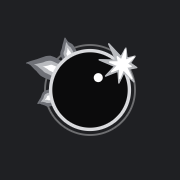
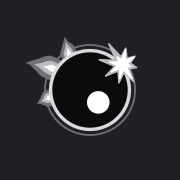
AI 탭 65차: 로고 흰 점 오른쪽 아래로, 2.5배 크게

Changed region(s): [[0.4722, 0.5, 0.6111, 0.6389], [0.5, 0.3889, 0.5833, 0.4722]]

diff --git a/ai/index.html b/ai/index.html
@@ -7,8 +7,8 @@
 <link rel="canonical" href="https://querybot.kr/ai/">
 <meta name="description" content="QueryBot AI — 직접 학습시킨 작은 한국어 AI와 대화하기">
 <title>QueryBot AI</title>
-<link rel="icon" href="/ai/favicon.svg?v=64" type="image/svg+xml">
-<link rel="apple-touch-icon" href="/ai/apple-touch-icon.png?v=64">
+<link rel="icon" href="/ai/favicon.svg?v=65" type="image/svg+xml">
+<link rel="apple-touch-icon" href="/ai/apple-touch-icon.png?v=65">
 <link rel="stylesheet" href="/assets/style.css">
 <link rel="stylesheet" href="https://cdn.jsdelivr.net/gh/orioncactus/pretendard@v1.3.9/dist/web/variable/pretendardvariable-dynamic-subset.min.css">
 <link rel="stylesheet" href="https://cdn.jsdelivr.net/npm/@fontsource-variable/noto-serif-kr@5.3.1/index.css">
@@ -1013,7 +1013,7 @@
 <script>try{var qbT=localStorage.getItem("qbAi.theme");if(qbT==="dark"||(qbT==="system"&&window.matchMedia&&matchMedia("(prefers-color-scheme: dark)").matches))document.documentElement.dataset.theme="dark";}catch(e){}</script>
 </head>
 <body class="qa-page">
-<header class="nav"><div class="wrap navin"><a class="brand qb-brand" id="brandHome" href="/ai/"><span class="qb-logo" aria-hidden="true"><svg class="qbm" viewBox="0 0 96 96" width="100%" height="100%" aria-hidden="true" focusable="false"><defs><mask id="qbgap" maskUnits="userSpaceOnUse" x="-30" y="-30" width="156" height="156"><rect x="-30" y="-30" width="156" height="156" fill="#fff"/><circle cx="48" cy="48" r="21.6" fill="#000"/></mask></defs><g transform="translate(48 48) scale(1.44) translate(-40.9 -44.5)"><g mask="url(#qbgap)"><g class="qfl qfl0"><path class="lg1" d="M34.5 44.1 C32.0 44.7 25.9 42.3 23.0 41.1 C20.0 39.9 18.8 38.3 17.0 36.9 C15.2 35.6 13.4 33.8 12.1 32.9 C10.8 32.0 8.4 31.8 9.2 31.3 C10.1 30.8 14.3 30.1 17.3 29.8 C20.3 29.5 23.7 28.2 27.2 29.5 C30.7 30.9 37.1 35.5 38.3 37.9 C39.5 40.4 37.1 43.6 34.5 44.1Z"/><path class="lg2" d="M35.0 42.8 C33.0 42.9 27.8 40.4 25.4 39.4 C23.1 38.3 22.4 37.4 21.0 36.5 C19.7 35.6 18.3 34.6 17.3 34.0 C16.3 33.4 14.5 33.3 15.1 33.0 C15.7 32.8 18.6 32.6 20.7 32.5 C22.8 32.4 24.9 31.5 27.6 32.6 C30.4 33.7 36.1 37.2 37.3 38.9 C38.5 40.6 37.0 42.8 35.0 42.8Z"/><path class="lg3" d="M35.4 41.8 C34.0 41.6 29.7 39.3 28.0 38.4 C26.4 37.6 26.2 37.3 25.3 36.8 C24.5 36.3 23.6 35.7 23.0 35.4 C22.4 35.1 21.3 35.0 21.6 34.9 C21.9 34.8 23.7 34.9 24.9 34.9 C26.1 35.0 27.0 34.4 28.9 35.2 C30.9 36.0 35.6 38.7 36.6 39.8 C37.7 40.9 36.9 42.0 35.4 41.8Z"/></g><g class="qfl qfl1"><path class="lg1" d="M38.6 37.6 C36.9 36.8 33.9 32.3 32.9 30.2 C31.8 28.1 32.6 26.6 32.6 25.0 C32.6 23.3 32.9 21.5 33.0 20.3 C33.2 19.1 33.1 17.6 33.6 17.8 C34.1 17.9 34.9 19.9 35.9 21.1 C36.9 22.4 38.3 22.7 39.6 25.0 C40.8 27.3 43.4 32.7 43.2 34.8 C43.1 36.9 40.4 38.4 38.6 37.6Z"/><path class="lg2" d="M39.4 36.9 C38.2 36.1 35.6 31.9 34.7 30.2 C33.9 28.4 34.5 27.6 34.5 26.4 C34.5 25.3 34.5 24.0 34.6 23.2 C34.6 22.3 34.5 21.2 34.8 21.4 C35.1 21.5 35.7 23.0 36.3 24.0 C36.9 24.9 37.6 25.0 38.6 26.9 C39.6 28.8 42.1 33.6 42.3 35.2 C42.4 36.9 40.7 37.8 39.4 36.9Z"/><path class="lg3" d="M40.1 36.5 C39.2 35.6 37.0 31.9 36.4 30.6 C35.7 29.2 36.2 29.1 36.2 28.4 C36.1 27.7 36.1 27.0 36.1 26.5 C36.1 26.0 36.0 25.3 36.1 25.4 C36.3 25.5 36.6 26.5 36.9 27.0 C37.3 27.6 37.4 27.5 38.2 28.9 C39.0 30.3 41.2 34.3 41.5 35.6 C41.8 36.8 40.9 37.3 40.1 36.5Z"/></g><g class="qfl qfl2"><path class="lg1" d="M35.0 53.2 C33.9 54.7 29.1 56.0 27.2 56.5 C25.2 57.0 24.5 56.3 23.3 56.1 C22.1 56.0 20.9 55.7 20.0 55.6 C19.2 55.5 18.2 56.1 18.4 55.6 C18.5 55.1 20.0 53.6 21.0 52.4 C22.0 51.2 22.4 49.2 24.6 48.4 C26.8 47.6 32.3 46.7 34.0 47.5 C35.7 48.3 36.2 51.7 35.0 53.2Z"/><path class="lg2" d="M34.6 52.2 C33.5 53.2 29.1 54.2 27.5 54.6 C25.8 55.0 25.6 54.5 24.7 54.5 C23.9 54.5 23.0 54.4 22.4 54.4 C21.8 54.4 21.1 54.9 21.2 54.6 C21.3 54.2 22.4 53.2 23.2 52.4 C24.0 51.6 24.0 50.5 25.8 49.8 C27.6 49.2 32.5 48.2 34.0 48.6 C35.5 49.0 35.7 51.2 34.6 52.2Z"/><path class="lg3" d="M34.4 51.3 C33.4 51.9 29.4 52.7 28.1 53.0 C26.7 53.3 27.0 53.1 26.5 53.1 C26.0 53.1 25.4 53.1 25.1 53.1 C24.7 53.2 24.3 53.5 24.4 53.3 C24.5 53.1 25.2 52.6 25.6 52.2 C26.1 51.7 25.8 51.2 27.2 50.7 C28.6 50.3 32.9 49.4 34.1 49.5 C35.3 49.6 35.4 50.8 34.4 51.3Z"/></g></g><circle class="lg-moon" cx="48" cy="48" r="19"/><circle class="lg-rim" cx="48" cy="48" r="19" fill="none" stroke-width="3"/><circle class="lg-spot" cx="52.0" cy="42.0" r="2.2"/><g class="qtw"><path class="lgf1" d="M72.9 37.5 L68.0 38.5 L71.2 46.8 L64.7 40.7 L61.4 47.5 L60.9 39.9 L52.8 43.0 L58.8 36.7 L48.6 32.6 L59.5 32.8 L54.9 22.3 L62.8 30.7 L65.9 25.1 L66.6 31.5 L71.9 30.3 L68.8 34.7 Z" stroke-width="0.8" stroke-linejoin="round"/><path class="lgf2" d="M69.3 36.8 L66.3 37.4 L69.7 44.7 L64.3 38.7 L61.9 44.7 L62.1 38.2 L56.9 40.2 L60.8 36.3 L55.5 34.0 L61.2 34.0 L60.4 30.7 L63.2 32.7 L65.7 26.2 L65.5 33.1 L71.0 30.9 L66.8 35.1 Z" stroke-width="0.8" stroke-linejoin="round"/></g></g></svg></span><span>Query<b>Bot</b></span><span class="qb-ai">AI</span></a><nav class="navlinks"><a href="/" data-ko="홈" data-en="Home"></a><a href="/games/" data-ko="게임" data-en="Games"></a></nav><button class="lang">EN</button></div></header>
+<header class="nav"><div class="wrap navin"><a class="brand qb-brand" id="brandHome" href="/ai/"><span class="qb-logo" aria-hidden="true"><svg class="qbm" viewBox="0 0 96 96" width="100%" height="100%" aria-hidden="true" focusable="false"><defs><mask id="qbgap" maskUnits="userSpaceOnUse" x="-30" y="-30" width="156" height="156"><rect x="-30" y="-30" width="156" height="156" fill="#fff"/><circle cx="48" cy="48" r="21.6" fill="#000"/></mask></defs><g transform="translate(48 48) scale(1.44) translate(-40.9 -44.5)"><g mask="url(#qbgap)"><g class="qfl qfl0"><path class="lg1" d="M34.5 44.1 C32.0 44.7 25.9 42.3 23.0 41.1 C20.0 39.9 18.8 38.3 17.0 36.9 C15.2 35.6 13.4 33.8 12.1 32.9 C10.8 32.0 8.4 31.8 9.2 31.3 C10.1 30.8 14.3 30.1 17.3 29.8 C20.3 29.5 23.7 28.2 27.2 29.5 C30.7 30.9 37.1 35.5 38.3 37.9 C39.5 40.4 37.1 43.6 34.5 44.1Z"/><path class="lg2" d="M35.0 42.8 C33.0 42.9 27.8 40.4 25.4 39.4 C23.1 38.3 22.4 37.4 21.0 36.5 C19.7 35.6 18.3 34.6 17.3 34.0 C16.3 33.4 14.5 33.3 15.1 33.0 C15.7 32.8 18.6 32.6 20.7 32.5 C22.8 32.4 24.9 31.5 27.6 32.6 C30.4 33.7 36.1 37.2 37.3 38.9 C38.5 40.6 37.0 42.8 35.0 42.8Z"/><path class="lg3" d="M35.4 41.8 C34.0 41.6 29.7 39.3 28.0 38.4 C26.4 37.6 26.2 37.3 25.3 36.8 C24.5 36.3 23.6 35.7 23.0 35.4 C22.4 35.1 21.3 35.0 21.6 34.9 C21.9 34.8 23.7 34.9 24.9 34.9 C26.1 35.0 27.0 34.4 28.9 35.2 C30.9 36.0 35.6 38.7 36.6 39.8 C37.7 40.9 36.9 42.0 35.4 41.8Z"/></g><g class="qfl qfl1"><path class="lg1" d="M38.6 37.6 C36.9 36.8 33.9 32.3 32.9 30.2 C31.8 28.1 32.6 26.6 32.6 25.0 C32.6 23.3 32.9 21.5 33.0 20.3 C33.2 19.1 33.1 17.6 33.6 17.8 C34.1 17.9 34.9 19.9 35.9 21.1 C36.9 22.4 38.3 22.7 39.6 25.0 C40.8 27.3 43.4 32.7 43.2 34.8 C43.1 36.9 40.4 38.4 38.6 37.6Z"/><path class="lg2" d="M39.4 36.9 C38.2 36.1 35.6 31.9 34.7 30.2 C33.9 28.4 34.5 27.6 34.5 26.4 C34.5 25.3 34.5 24.0 34.6 23.2 C34.6 22.3 34.5 21.2 34.8 21.4 C35.1 21.5 35.7 23.0 36.3 24.0 C36.9 24.9 37.6 25.0 38.6 26.9 C39.6 28.8 42.1 33.6 42.3 35.2 C42.4 36.9 40.7 37.8 39.4 36.9Z"/><path class="lg3" d="M40.1 36.5 C39.2 35.6 37.0 31.9 36.4 30.6 C35.7 29.2 36.2 29.1 36.2 28.4 C36.1 27.7 36.1 27.0 36.1 26.5 C36.1 26.0 36.0 25.3 36.1 25.4 C36.3 25.5 36.6 26.5 36.9 27.0 C37.3 27.6 37.4 27.5 38.2 28.9 C39.0 30.3 41.2 34.3 41.5 35.6 C41.8 36.8 40.9 37.3 40.1 36.5Z"/></g><g class="qfl qfl2"><path class="lg1" d="M35.0 53.2 C33.9 54.7 29.1 56.0 27.2 56.5 C25.2 57.0 24.5 56.3 23.3 56.1 C22.1 56.0 20.9 55.7 20.0 55.6 C19.2 55.5 18.2 56.1 18.4 55.6 C18.5 55.1 20.0 53.6 21.0 52.4 C22.0 51.2 22.4 49.2 24.6 48.4 C26.8 47.6 32.3 46.7 34.0 47.5 C35.7 48.3 36.2 51.7 35.0 53.2Z"/><path class="lg2" d="M34.6 52.2 C33.5 53.2 29.1 54.2 27.5 54.6 C25.8 55.0 25.6 54.5 24.7 54.5 C23.9 54.5 23.0 54.4 22.4 54.4 C21.8 54.4 21.1 54.9 21.2 54.6 C21.3 54.2 22.4 53.2 23.2 52.4 C24.0 51.6 24.0 50.5 25.8 49.8 C27.6 49.2 32.5 48.2 34.0 48.6 C35.5 49.0 35.7 51.2 34.6 52.2Z"/><path class="lg3" d="M34.4 51.3 C33.4 51.9 29.4 52.7 28.1 53.0 C26.7 53.3 27.0 53.1 26.5 53.1 C26.0 53.1 25.4 53.1 25.1 53.1 C24.7 53.2 24.3 53.5 24.4 53.3 C24.5 53.1 25.2 52.6 25.6 52.2 C26.1 51.7 25.8 51.2 27.2 50.7 C28.6 50.3 32.9 49.4 34.1 49.5 C35.3 49.6 35.4 50.8 34.4 51.3Z"/></g></g><circle class="lg-moon" cx="48" cy="48" r="19"/><circle class="lg-rim" cx="48" cy="48" r="19" fill="none" stroke-width="3"/><circle class="lg-spot" cx="52.0" cy="54.0" r="5.5"/><g class="qtw"><path class="lgf1" d="M72.9 37.5 L68.0 38.5 L71.2 46.8 L64.7 40.7 L61.4 47.5 L60.9 39.9 L52.8 43.0 L58.8 36.7 L48.6 32.6 L59.5 32.8 L54.9 22.3 L62.8 30.7 L65.9 25.1 L66.6 31.5 L71.9 30.3 L68.8 34.7 Z" stroke-width="0.8" stroke-linejoin="round"/><path class="lgf2" d="M69.3 36.8 L66.3 37.4 L69.7 44.7 L64.3 38.7 L61.9 44.7 L62.1 38.2 L56.9 40.2 L60.8 36.3 L55.5 34.0 L61.2 34.0 L60.4 30.7 L63.2 32.7 L65.7 26.2 L65.5 33.1 L71.0 30.9 L66.8 35.1 Z" stroke-width="0.8" stroke-linejoin="round"/></g></g></svg></span><span>Query<b>Bot</b></span><span class="qb-ai">AI</span></a><nav class="navlinks"><a href="/" data-ko="홈" data-en="Home"></a><a href="/games/" data-ko="게임" data-en="Games"></a></nav><button class="lang">EN</button></div></header>
 <div class="qa-app">
   <aside class="qa-side" id="side" aria-label="대화 기록">
     <div class="qa-drawer-top"><a class="brand" href="/">Query<b>Bot</b></a><nav><a href="/" data-ko="홈" data-en="Home"></a><a href="/games/" data-ko="게임" data-en="Games"></a><a href="/download/" data-ko="다운로드" data-en="Download"></a></nav><button class="lang" type="button">EN</button></div>
@@ -1565,8 +1565,8 @@
   $("histOff").addEventListener("click", disableHistory);
 
   // 쿼리봇 차례 한 칸: 아이콘 + 이름 + 내용. kind = "ai" | "wiki" | "taught"(주인이 가르친 답)
-  const QB_MARK = '<svg class="qbm" viewBox="0 0 96 96" width="100%" height="100%" aria-hidden="true" focusable="false"><defs><mask id="qbgap" maskUnits="userSpaceOnUse" x="-30" y="-30" width="156" height="156"><rect x="-30" y="-30" width="156" height="156" fill="#fff"/><circle cx="48" cy="48" r="21.6" fill="#000"/></mask></defs><g transform="translate(48 48) scale(1.44) translate(-40.9 -44.5)"><g mask="url(#qbgap)"><g class="qfl qfl0"><path class="lg1" d="M34.5 44.1 C32.0 44.7 25.9 42.3 23.0 41.1 C20.0 39.9 18.8 38.3 17.0 36.9 C15.2 35.6 13.4 33.8 12.1 32.9 C10.8 32.0 8.4 31.8 9.2 31.3 C10.1 30.8 14.3 30.1 17.3 29.8 C20.3 29.5 23.7 28.2 27.2 29.5 C30.7 30.9 37.1 35.5 38.3 37.9 C39.5 40.4 37.1 43.6 34.5 44.1Z"/><path class="lg2" d="M35.0 42.8 C33.0 42.9 27.8 40.4 25.4 39.4 C23.1 38.3 22.4 37.4 21.0 36.5 C19.7 35.6 18.3 34.6 17.3 34.0 C16.3 33.4 14.5 33.3 15.1 33.0 C15.7 32.8 18.6 32.6 20.7 32.5 C22.8 32.4 24.9 31.5 27.6 32.6 C30.4 33.7 36.1 37.2 37.3 38.9 C38.5 40.6 37.0 42.8 35.0 42.8Z"/><path class="lg3" d="M35.4 41.8 C34.0 41.6 29.7 39.3 28.0 38.4 C26.4 37.6 26.2 37.3 25.3 36.8 C24.5 36.3 23.6 35.7 23.0 35.4 C22.4 35.1 21.3 35.0 21.6 34.9 C21.9 34.8 23.7 34.9 24.9 34.9 C26.1 35.0 27.0 34.4 28.9 35.2 C30.9 36.0 35.6 38.7 36.6 39.8 C37.7 40.9 36.9 42.0 35.4 41.8Z"/></g><g class="qfl qfl1"><path class="lg1" d="M38.6 37.6 C36.9 36.8 33.9 32.3 32.9 30.2 C31.8 28.1 32.6 26.6 32.6 25.0 C32.6 23.3 32.9 21.5 33.0 20.3 C33.2 19.1 33.1 17.6 33.6 17.8 C34.1 17.9 34.9 19.9 35.9 21.1 C36.9 22.4 38.3 22.7 39.6 25.0 C40.8 27.3 43.4 32.7 43.2 34.8 C43.1 36.9 40.4 38.4 38.6 37.6Z"/><path class="lg2" d="M39.4 36.9 C38.2 36.1 35.6 31.9 34.7 30.2 C33.9 28.4 34.5 27.6 34.5 26.4 C34.5 25.3 34.5 24.0 34.6 23.2 C34.6 22.3 34.5 21.2 34.8 21.4 C35.1 21.5 35.7 23.0 36.3 24.0 C36.9 24.9 37.6 25.0 38.6 26.9 C39.6 28.8 42.1 33.6 42.3 35.2 C42.4 36.9 40.7 37.8 39.4 36.9Z"/><path class="lg3" d="M40.1 36.5 C39.2 35.6 37.0 31.9 36.4 30.6 C35.7 29.2 36.2 29.1 36.2 28.4 C36.1 27.7 36.1 27.0 36.1 26.5 C36.1 26.0 36.0 25.3 36.1 25.4 C36.3 25.5 36.6 26.5 36.9 27.0 C37.3 27.6 37.4 27.5 38.2 28.9 C39.0 30.3 41.2 34.3 41.5 35.6 C41.8 36.8 40.9 37.3 40.1 36.5Z"/></g><g class="qfl qfl2"><path class="lg1" d="M35.0 53.2 C33.9 54.7 29.1 56.0 27.2 56.5 C25.2 57.0 24.5 56.3 23.3 56.1 C22.1 56.0 20.9 55.7 20.0 55.6 C19.2 55.5 18.2 56.1 18.4 55.6 C18.5 55.1 20.0 53.6 21.0 52.4 C22.0 51.2 22.4 49.2 24.6 48.4 C26.8 47.6 32.3 46.7 34.0 47.5 C35.7 48.3 36.2 51.7 35.0 53.2Z"/><path class="lg2" d="M34.6 52.2 C33.5 53.2 29.1 54.2 27.5 54.6 C25.8 55.0 25.6 54.5 24.7 54.5 C23.9 54.5 23.0 54.4 22.4 54.4 C21.8 54.4 21.1 54.9 21.2 54.6 C21.3 54.2 22.4 53.2 23.2 52.4 C24.0 51.6 24.0 50.5 25.8 49.8 C27.6 49.2 32.5 48.2 34.0 48.6 C35.5 49.0 35.7 51.2 34.6 52.2Z"/><path class="lg3" d="M34.4 51.3 C33.4 51.9 29.4 52.7 28.1 53.0 C26.7 53.3 27.0 53.1 26.5 53.1 C26.0 53.1 25.4 53.1 25.1 53.1 C24.7 53.2 24.3 53.5 24.4 53.3 C24.5 53.1 25.2 52.6 25.6 52.2 C26.1 51.7 25.8 51.2 27.2 50.7 C28.6 50.3 32.9 49.4 34.1 49.5 C35.3 49.6 35.4 50.8 34.4 51.3Z"/></g></g><circle class="lg-moon" cx="48" cy="48" r="19"/><circle class="lg-rim" cx="48" cy="48" r="19" fill="none" stroke-width="3"/><circle class="lg-spot" cx="52.0" cy="42.0" r="2.2"/><g class="qtw"><path class="lgf1" d="M72.9 37.5 L68.0 38.5 L71.2 46.8 L64.7 40.7 L61.4 47.5 L60.9 39.9 L52.8 43.0 L58.8 36.7 L48.6 32.6 L59.5 32.8 L54.9 22.3 L62.8 30.7 L65.9 25.1 L66.6 31.5 L71.9 30.3 L68.8 34.7 Z" stroke-width="0.8" stroke-linejoin="round"/><path class="lgf2" d="M69.3 36.8 L66.3 37.4 L69.7 44.7 L64.3 38.7 L61.9 44.7 L62.1 38.2 L56.9 40.2 L60.8 36.3 L55.5 34.0 L61.2 34.0 L60.4 30.7 L63.2 32.7 L65.7 26.2 L65.5 33.1 L71.0 30.9 L66.8 35.1 Z" stroke-width="0.8" stroke-linejoin="round"/></g></g></svg>';
-  const QB_ECLIPSE = '<svg class="qbm qbe" viewBox="0 0 96 96" width="100%" height="100%" aria-hidden="true" focusable="false"><defs><mask id="qbgap" maskUnits="userSpaceOnUse" x="-30" y="-30" width="156" height="156"><rect x="-30" y="-30" width="156" height="156" fill="#fff"/><circle cx="48" cy="48" r="21.6" fill="#000"/></mask></defs><g transform="translate(48 48) scale(1.44) translate(-40.9 -44.5)"><circle class="qe-sun" cx="48" cy="48" r="19.5"/><g class="qe-show"><g mask="url(#qbgap)"><g class="qfl qfl0"><path class="lg1" d="M34.5 44.1 C32.0 44.7 25.9 42.3 23.0 41.1 C20.0 39.9 18.8 38.3 17.0 36.9 C15.2 35.6 13.4 33.8 12.1 32.9 C10.8 32.0 8.4 31.8 9.2 31.3 C10.1 30.8 14.3 30.1 17.3 29.8 C20.3 29.5 23.7 28.2 27.2 29.5 C30.7 30.9 37.1 35.5 38.3 37.9 C39.5 40.4 37.1 43.6 34.5 44.1Z"/><path class="lg2" d="M35.0 42.8 C33.0 42.9 27.8 40.4 25.4 39.4 C23.1 38.3 22.4 37.4 21.0 36.5 C19.7 35.6 18.3 34.6 17.3 34.0 C16.3 33.4 14.5 33.3 15.1 33.0 C15.7 32.8 18.6 32.6 20.7 32.5 C22.8 32.4 24.9 31.5 27.6 32.6 C30.4 33.7 36.1 37.2 37.3 38.9 C38.5 40.6 37.0 42.8 35.0 42.8Z"/><path class="lg3" d="M35.4 41.8 C34.0 41.6 29.7 39.3 28.0 38.4 C26.4 37.6 26.2 37.3 25.3 36.8 C24.5 36.3 23.6 35.7 23.0 35.4 C22.4 35.1 21.3 35.0 21.6 34.9 C21.9 34.8 23.7 34.9 24.9 34.9 C26.1 35.0 27.0 34.4 28.9 35.2 C30.9 36.0 35.6 38.7 36.6 39.8 C37.7 40.9 36.9 42.0 35.4 41.8Z"/></g><g class="qfl qfl1"><path class="lg1" d="M38.6 37.6 C36.9 36.8 33.9 32.3 32.9 30.2 C31.8 28.1 32.6 26.6 32.6 25.0 C32.6 23.3 32.9 21.5 33.0 20.3 C33.2 19.1 33.1 17.6 33.6 17.8 C34.1 17.9 34.9 19.9 35.9 21.1 C36.9 22.4 38.3 22.7 39.6 25.0 C40.8 27.3 43.4 32.7 43.2 34.8 C43.1 36.9 40.4 38.4 38.6 37.6Z"/><path class="lg2" d="M39.4 36.9 C38.2 36.1 35.6 31.9 34.7 30.2 C33.9 28.4 34.5 27.6 34.5 26.4 C34.5 25.3 34.5 24.0 34.6 23.2 C34.6 22.3 34.5 21.2 34.8 21.4 C35.1 21.5 35.7 23.0 36.3 24.0 C36.9 24.9 37.6 25.0 38.6 26.9 C39.6 28.8 42.1 33.6 42.3 35.2 C42.4 36.9 40.7 37.8 39.4 36.9Z"/><path class="lg3" d="M40.1 36.5 C39.2 35.6 37.0 31.9 36.4 30.6 C35.7 29.2 36.2 29.1 36.2 28.4 C36.1 27.7 36.1 27.0 36.1 26.5 C36.1 26.0 36.0 25.3 36.1 25.4 C36.3 25.5 36.6 26.5 36.9 27.0 C37.3 27.6 37.4 27.5 38.2 28.9 C39.0 30.3 41.2 34.3 41.5 35.6 C41.8 36.8 40.9 37.3 40.1 36.5Z"/></g><g class="qfl qfl2"><path class="lg1" d="M35.0 53.2 C33.9 54.7 29.1 56.0 27.2 56.5 C25.2 57.0 24.5 56.3 23.3 56.1 C22.1 56.0 20.9 55.7 20.0 55.6 C19.2 55.5 18.2 56.1 18.4 55.6 C18.5 55.1 20.0 53.6 21.0 52.4 C22.0 51.2 22.4 49.2 24.6 48.4 C26.8 47.6 32.3 46.7 34.0 47.5 C35.7 48.3 36.2 51.7 35.0 53.2Z"/><path class="lg2" d="M34.6 52.2 C33.5 53.2 29.1 54.2 27.5 54.6 C25.8 55.0 25.6 54.5 24.7 54.5 C23.9 54.5 23.0 54.4 22.4 54.4 C21.8 54.4 21.1 54.9 21.2 54.6 C21.3 54.2 22.4 53.2 23.2 52.4 C24.0 51.6 24.0 50.5 25.8 49.8 C27.6 49.2 32.5 48.2 34.0 48.6 C35.5 49.0 35.7 51.2 34.6 52.2Z"/><path class="lg3" d="M34.4 51.3 C33.4 51.9 29.4 52.7 28.1 53.0 C26.7 53.3 27.0 53.1 26.5 53.1 C26.0 53.1 25.4 53.1 25.1 53.1 C24.7 53.2 24.3 53.5 24.4 53.3 C24.5 53.1 25.2 52.6 25.6 52.2 C26.1 51.7 25.8 51.2 27.2 50.7 C28.6 50.3 32.9 49.4 34.1 49.5 C35.3 49.6 35.4 50.8 34.4 51.3Z"/></g></g><g class="qtw"><path class="lgf1" d="M72.9 37.5 L68.0 38.5 L71.2 46.8 L64.7 40.7 L61.4 47.5 L60.9 39.9 L52.8 43.0 L58.8 36.7 L48.6 32.6 L59.5 32.8 L54.9 22.3 L62.8 30.7 L65.9 25.1 L66.6 31.5 L71.9 30.3 L68.8 34.7 Z" stroke-width="0.8" stroke-linejoin="round"/><path class="lgf2" d="M69.3 36.8 L66.3 37.4 L69.7 44.7 L64.3 38.7 L61.9 44.7 L62.1 38.2 L56.9 40.2 L60.8 36.3 L55.5 34.0 L61.2 34.0 L60.4 30.7 L63.2 32.7 L65.7 26.2 L65.5 33.1 L71.0 30.9 L66.8 35.1 Z" stroke-width="0.8" stroke-linejoin="round"/></g></g><g class="qe-moon"><circle class="lg-moon" cx="48" cy="48" r="19.8"/><circle class="lg-spot" cx="52.0" cy="42.0" r="2.2"/></g></g></svg>';
+  const QB_MARK = '<svg class="qbm" viewBox="0 0 96 96" width="100%" height="100%" aria-hidden="true" focusable="false"><defs><mask id="qbgap" maskUnits="userSpaceOnUse" x="-30" y="-30" width="156" height="156"><rect x="-30" y="-30" width="156" height="156" fill="#fff"/><circle cx="48" cy="48" r="21.6" fill="#000"/></mask></defs><g transform="translate(48 48) scale(1.44) translate(-40.9 -44.5)"><g mask="url(#qbgap)"><g class="qfl qfl0"><path class="lg1" d="M34.5 44.1 C32.0 44.7 25.9 42.3 23.0 41.1 C20.0 39.9 18.8 38.3 17.0 36.9 C15.2 35.6 13.4 33.8 12.1 32.9 C10.8 32.0 8.4 31.8 9.2 31.3 C10.1 30.8 14.3 30.1 17.3 29.8 C20.3 29.5 23.7 28.2 27.2 29.5 C30.7 30.9 37.1 35.5 38.3 37.9 C39.5 40.4 37.1 43.6 34.5 44.1Z"/><path class="lg2" d="M35.0 42.8 C33.0 42.9 27.8 40.4 25.4 39.4 C23.1 38.3 22.4 37.4 21.0 36.5 C19.7 35.6 18.3 34.6 17.3 34.0 C16.3 33.4 14.5 33.3 15.1 33.0 C15.7 32.8 18.6 32.6 20.7 32.5 C22.8 32.4 24.9 31.5 27.6 32.6 C30.4 33.7 36.1 37.2 37.3 38.9 C38.5 40.6 37.0 42.8 35.0 42.8Z"/><path class="lg3" d="M35.4 41.8 C34.0 41.6 29.7 39.3 28.0 38.4 C26.4 37.6 26.2 37.3 25.3 36.8 C24.5 36.3 23.6 35.7 23.0 35.4 C22.4 35.1 21.3 35.0 21.6 34.9 C21.9 34.8 23.7 34.9 24.9 34.9 C26.1 35.0 27.0 34.4 28.9 35.2 C30.9 36.0 35.6 38.7 36.6 39.8 C37.7 40.9 36.9 42.0 35.4 41.8Z"/></g><g class="qfl qfl1"><path class="lg1" d="M38.6 37.6 C36.9 36.8 33.9 32.3 32.9 30.2 C31.8 28.1 32.6 26.6 32.6 25.0 C32.6 23.3 32.9 21.5 33.0 20.3 C33.2 19.1 33.1 17.6 33.6 17.8 C34.1 17.9 34.9 19.9 35.9 21.1 C36.9 22.4 38.3 22.7 39.6 25.0 C40.8 27.3 43.4 32.7 43.2 34.8 C43.1 36.9 40.4 38.4 38.6 37.6Z"/><path class="lg2" d="M39.4 36.9 C38.2 36.1 35.6 31.9 34.7 30.2 C33.9 28.4 34.5 27.6 34.5 26.4 C34.5 25.3 34.5 24.0 34.6 23.2 C34.6 22.3 34.5 21.2 34.8 21.4 C35.1 21.5 35.7 23.0 36.3 24.0 C36.9 24.9 37.6 25.0 38.6 26.9 C39.6 28.8 42.1 33.6 42.3 35.2 C42.4 36.9 40.7 37.8 39.4 36.9Z"/><path class="lg3" d="M40.1 36.5 C39.2 35.6 37.0 31.9 36.4 30.6 C35.7 29.2 36.2 29.1 36.2 28.4 C36.1 27.7 36.1 27.0 36.1 26.5 C36.1 26.0 36.0 25.3 36.1 25.4 C36.3 25.5 36.6 26.5 36.9 27.0 C37.3 27.6 37.4 27.5 38.2 28.9 C39.0 30.3 41.2 34.3 41.5 35.6 C41.8 36.8 40.9 37.3 40.1 36.5Z"/></g><g class="qfl qfl2"><path class="lg1" d="M35.0 53.2 C33.9 54.7 29.1 56.0 27.2 56.5 C25.2 57.0 24.5 56.3 23.3 56.1 C22.1 56.0 20.9 55.7 20.0 55.6 C19.2 55.5 18.2 56.1 18.4 55.6 C18.5 55.1 20.0 53.6 21.0 52.4 C22.0 51.2 22.4 49.2 24.6 48.4 C26.8 47.6 32.3 46.7 34.0 47.5 C35.7 48.3 36.2 51.7 35.0 53.2Z"/><path class="lg2" d="M34.6 52.2 C33.5 53.2 29.1 54.2 27.5 54.6 C25.8 55.0 25.6 54.5 24.7 54.5 C23.9 54.5 23.0 54.4 22.4 54.4 C21.8 54.4 21.1 54.9 21.2 54.6 C21.3 54.2 22.4 53.2 23.2 52.4 C24.0 51.6 24.0 50.5 25.8 49.8 C27.6 49.2 32.5 48.2 34.0 48.6 C35.5 49.0 35.7 51.2 34.6 52.2Z"/><path class="lg3" d="M34.4 51.3 C33.4 51.9 29.4 52.7 28.1 53.0 C26.7 53.3 27.0 53.1 26.5 53.1 C26.0 53.1 25.4 53.1 25.1 53.1 C24.7 53.2 24.3 53.5 24.4 53.3 C24.5 53.1 25.2 52.6 25.6 52.2 C26.1 51.7 25.8 51.2 27.2 50.7 C28.6 50.3 32.9 49.4 34.1 49.5 C35.3 49.6 35.4 50.8 34.4 51.3Z"/></g></g><circle class="lg-moon" cx="48" cy="48" r="19"/><circle class="lg-rim" cx="48" cy="48" r="19" fill="none" stroke-width="3"/><circle class="lg-spot" cx="52.0" cy="54.0" r="5.5"/><g class="qtw"><path class="lgf1" d="M72.9 37.5 L68.0 38.5 L71.2 46.8 L64.7 40.7 L61.4 47.5 L60.9 39.9 L52.8 43.0 L58.8 36.7 L48.6 32.6 L59.5 32.8 L54.9 22.3 L62.8 30.7 L65.9 25.1 L66.6 31.5 L71.9 30.3 L68.8 34.7 Z" stroke-width="0.8" stroke-linejoin="round"/><path class="lgf2" d="M69.3 36.8 L66.3 37.4 L69.7 44.7 L64.3 38.7 L61.9 44.7 L62.1 38.2 L56.9 40.2 L60.8 36.3 L55.5 34.0 L61.2 34.0 L60.4 30.7 L63.2 32.7 L65.7 26.2 L65.5 33.1 L71.0 30.9 L66.8 35.1 Z" stroke-width="0.8" stroke-linejoin="round"/></g></g></svg>';
+  const QB_ECLIPSE = '<svg class="qbm qbe" viewBox="0 0 96 96" width="100%" height="100%" aria-hidden="true" focusable="false"><defs><mask id="qbgap" maskUnits="userSpaceOnUse" x="-30" y="-30" width="156" height="156"><rect x="-30" y="-30" width="156" height="156" fill="#fff"/><circle cx="48" cy="48" r="21.6" fill="#000"/></mask></defs><g transform="translate(48 48) scale(1.44) translate(-40.9 -44.5)"><circle class="qe-sun" cx="48" cy="48" r="19.5"/><g class="qe-show"><g mask="url(#qbgap)"><g class="qfl qfl0"><path class="lg1" d="M34.5 44.1 C32.0 44.7 25.9 42.3 23.0 41.1 C20.0 39.9 18.8 38.3 17.0 36.9 C15.2 35.6 13.4 33.8 12.1 32.9 C10.8 32.0 8.4 31.8 9.2 31.3 C10.1 30.8 14.3 30.1 17.3 29.8 C20.3 29.5 23.7 28.2 27.2 29.5 C30.7 30.9 37.1 35.5 38.3 37.9 C39.5 40.4 37.1 43.6 34.5 44.1Z"/><path class="lg2" d="M35.0 42.8 C33.0 42.9 27.8 40.4 25.4 39.4 C23.1 38.3 22.4 37.4 21.0 36.5 C19.7 35.6 18.3 34.6 17.3 34.0 C16.3 33.4 14.5 33.3 15.1 33.0 C15.7 32.8 18.6 32.6 20.7 32.5 C22.8 32.4 24.9 31.5 27.6 32.6 C30.4 33.7 36.1 37.2 37.3 38.9 C38.5 40.6 37.0 42.8 35.0 42.8Z"/><path class="lg3" d="M35.4 41.8 C34.0 41.6 29.7 39.3 28.0 38.4 C26.4 37.6 26.2 37.3 25.3 36.8 C24.5 36.3 23.6 35.7 23.0 35.4 C22.4 35.1 21.3 35.0 21.6 34.9 C21.9 34.8 23.7 34.9 24.9 34.9 C26.1 35.0 27.0 34.4 28.9 35.2 C30.9 36.0 35.6 38.7 36.6 39.8 C37.7 40.9 36.9 42.0 35.4 41.8Z"/></g><g class="qfl qfl1"><path class="lg1" d="M38.6 37.6 C36.9 36.8 33.9 32.3 32.9 30.2 C31.8 28.1 32.6 26.6 32.6 25.0 C32.6 23.3 32.9 21.5 33.0 20.3 C33.2 19.1 33.1 17.6 33.6 17.8 C34.1 17.9 34.9 19.9 35.9 21.1 C36.9 22.4 38.3 22.7 39.6 25.0 C40.8 27.3 43.4 32.7 43.2 34.8 C43.1 36.9 40.4 38.4 38.6 37.6Z"/><path class="lg2" d="M39.4 36.9 C38.2 36.1 35.6 31.9 34.7 30.2 C33.9 28.4 34.5 27.6 34.5 26.4 C34.5 25.3 34.5 24.0 34.6 23.2 C34.6 22.3 34.5 21.2 34.8 21.4 C35.1 21.5 35.7 23.0 36.3 24.0 C36.9 24.9 37.6 25.0 38.6 26.9 C39.6 28.8 42.1 33.6 42.3 35.2 C42.4 36.9 40.7 37.8 39.4 36.9Z"/><path class="lg3" d="M40.1 36.5 C39.2 35.6 37.0 31.9 36.4 30.6 C35.7 29.2 36.2 29.1 36.2 28.4 C36.1 27.7 36.1 27.0 36.1 26.5 C36.1 26.0 36.0 25.3 36.1 25.4 C36.3 25.5 36.6 26.5 36.9 27.0 C37.3 27.6 37.4 27.5 38.2 28.9 C39.0 30.3 41.2 34.3 41.5 35.6 C41.8 36.8 40.9 37.3 40.1 36.5Z"/></g><g class="qfl qfl2"><path class="lg1" d="M35.0 53.2 C33.9 54.7 29.1 56.0 27.2 56.5 C25.2 57.0 24.5 56.3 23.3 56.1 C22.1 56.0 20.9 55.7 20.0 55.6 C19.2 55.5 18.2 56.1 18.4 55.6 C18.5 55.1 20.0 53.6 21.0 52.4 C22.0 51.2 22.4 49.2 24.6 48.4 C26.8 47.6 32.3 46.7 34.0 47.5 C35.7 48.3 36.2 51.7 35.0 53.2Z"/><path class="lg2" d="M34.6 52.2 C33.5 53.2 29.1 54.2 27.5 54.6 C25.8 55.0 25.6 54.5 24.7 54.5 C23.9 54.5 23.0 54.4 22.4 54.4 C21.8 54.4 21.1 54.9 21.2 54.6 C21.3 54.2 22.4 53.2 23.2 52.4 C24.0 51.6 24.0 50.5 25.8 49.8 C27.6 49.2 32.5 48.2 34.0 48.6 C35.5 49.0 35.7 51.2 34.6 52.2Z"/><path class="lg3" d="M34.4 51.3 C33.4 51.9 29.4 52.7 28.1 53.0 C26.7 53.3 27.0 53.1 26.5 53.1 C26.0 53.1 25.4 53.1 25.1 53.1 C24.7 53.2 24.3 53.5 24.4 53.3 C24.5 53.1 25.2 52.6 25.6 52.2 C26.1 51.7 25.8 51.2 27.2 50.7 C28.6 50.3 32.9 49.4 34.1 49.5 C35.3 49.6 35.4 50.8 34.4 51.3Z"/></g></g><g class="qtw"><path class="lgf1" d="M72.9 37.5 L68.0 38.5 L71.2 46.8 L64.7 40.7 L61.4 47.5 L60.9 39.9 L52.8 43.0 L58.8 36.7 L48.6 32.6 L59.5 32.8 L54.9 22.3 L62.8 30.7 L65.9 25.1 L66.6 31.5 L71.9 30.3 L68.8 34.7 Z" stroke-width="0.8" stroke-linejoin="round"/><path class="lgf2" d="M69.3 36.8 L66.3 37.4 L69.7 44.7 L64.3 38.7 L61.9 44.7 L62.1 38.2 L56.9 40.2 L60.8 36.3 L55.5 34.0 L61.2 34.0 L60.4 30.7 L63.2 32.7 L65.7 26.2 L65.5 33.1 L71.0 30.9 L66.8 35.1 Z" stroke-width="0.8" stroke-linejoin="round"/></g></g><g class="qe-moon"><circle class="lg-moon" cx="48" cy="48" r="19.8"/><circle class="lg-spot" cx="52.0" cy="54.0" r="5.5"/></g></g></svg>';
   const plainNote = (s) => el("div", "wait-note", s);
   const wakeNote = (s) => { const d = el("div", "wait-note wake"); const i = el("span", "qe"); i.innerHTML = QB_ECLIPSE; d.append(i, el("span", "", s)); return d; };  // 64차
   function turnShell(kind) {
